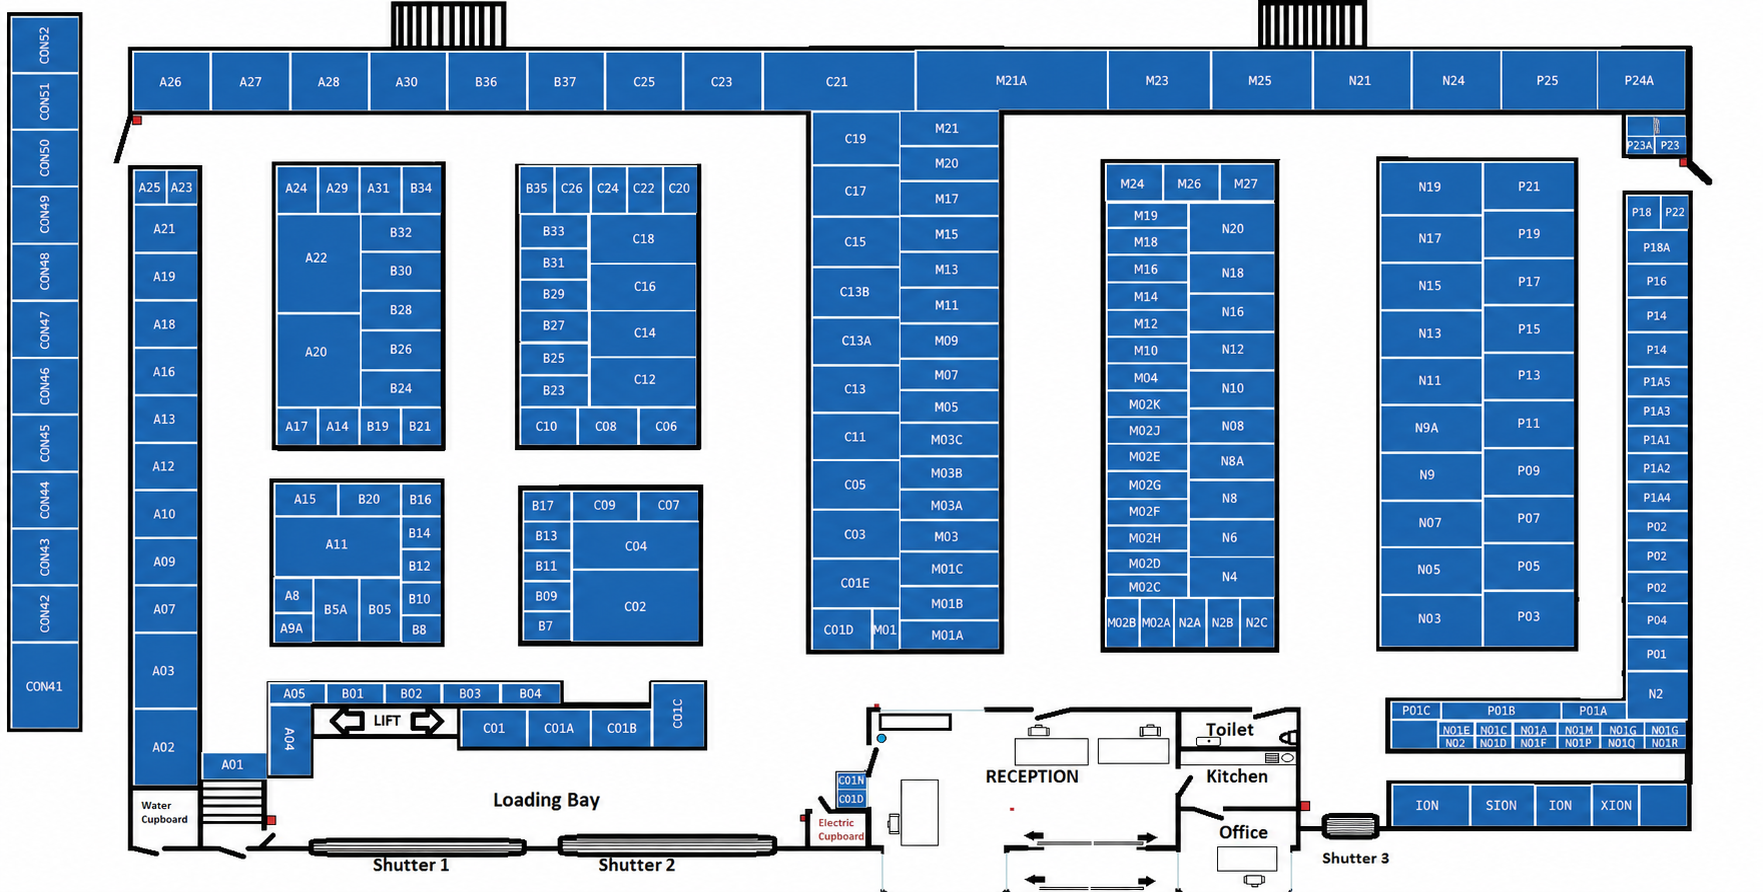
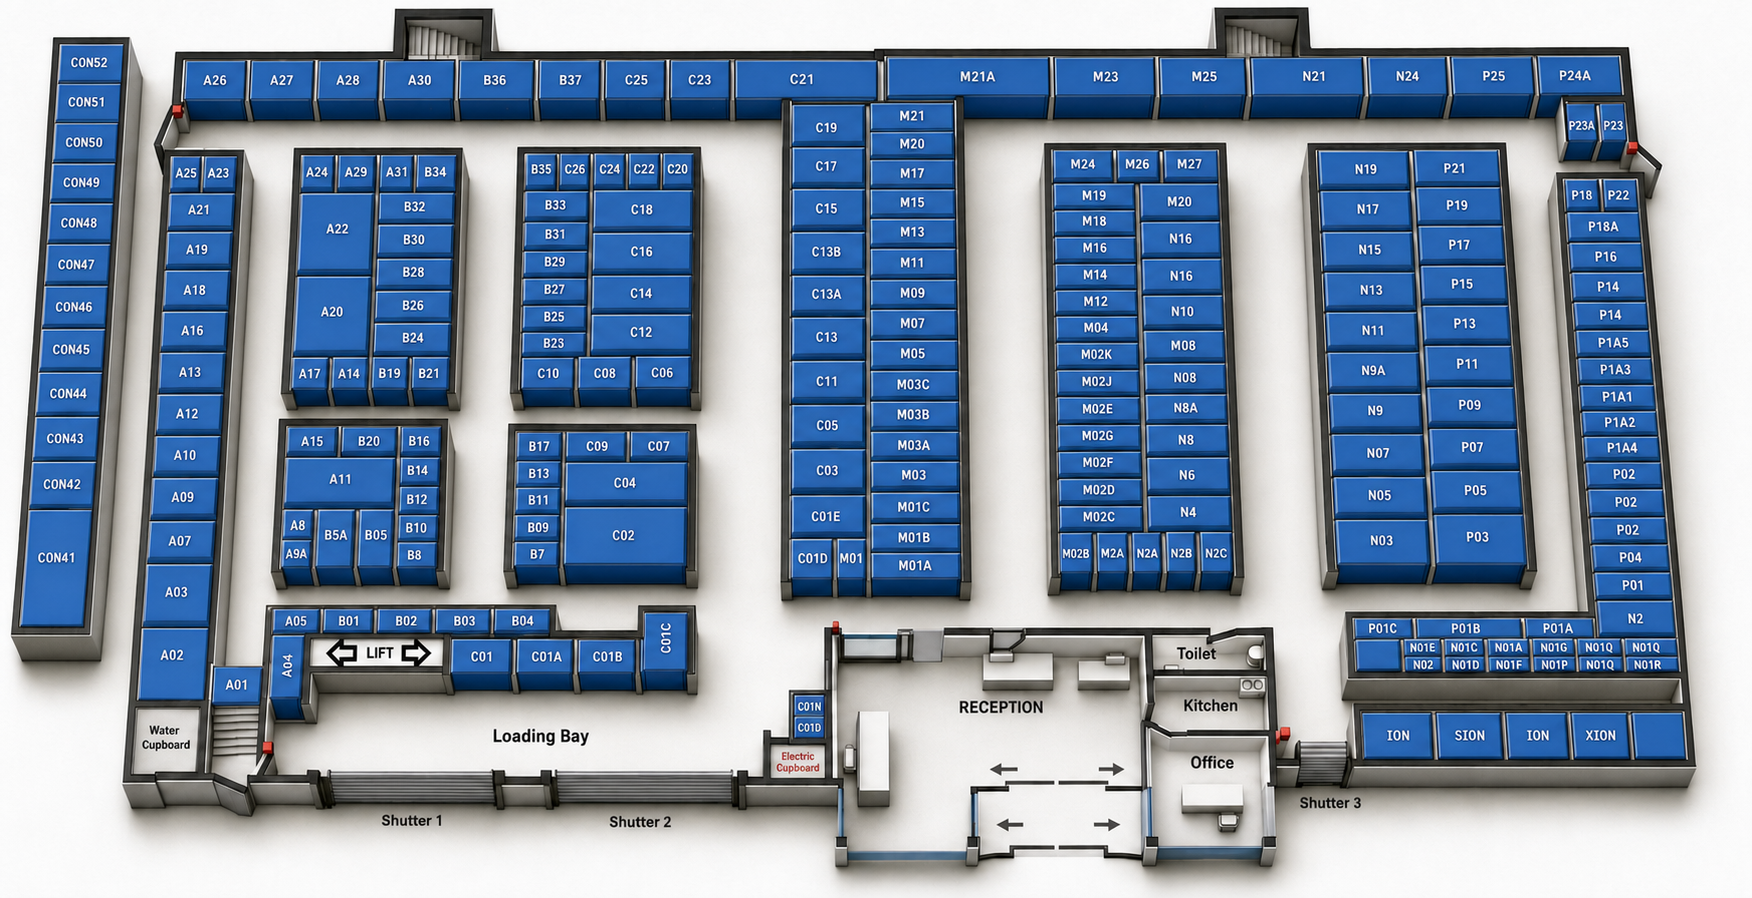
Update navigator with 3D map

diff --git a/style.css b/style.css
@@ -285,3 +285,23 @@ header h2 {
   height: auto;
   margin: 0 auto;
 }
+#mapContainer {
+  transform: perspective(900px) rotateX(12deg) rotateZ(-0.6deg);
+  transform-origin: top center;
+  border: 4px solid #0b3d91;
+  border-radius: 10px;
+  background: #eef2f5;
+  box-shadow:
+    0 10px 0 #082c68,
+    0 24px 35px rgba(0, 0, 0, 0.28);
+  transition: transform 0.3s ease;
+}
+
+@media (max-width: 600px) {
+  #mapContainer {
+    transform: perspective(800px) rotateX(8deg) rotateZ(-0.4deg);
+    box-shadow:
+      0 6px 0 #082c68,
+      0 15px 24px rgba(0, 0, 0, 0.24);
+  }
+}
